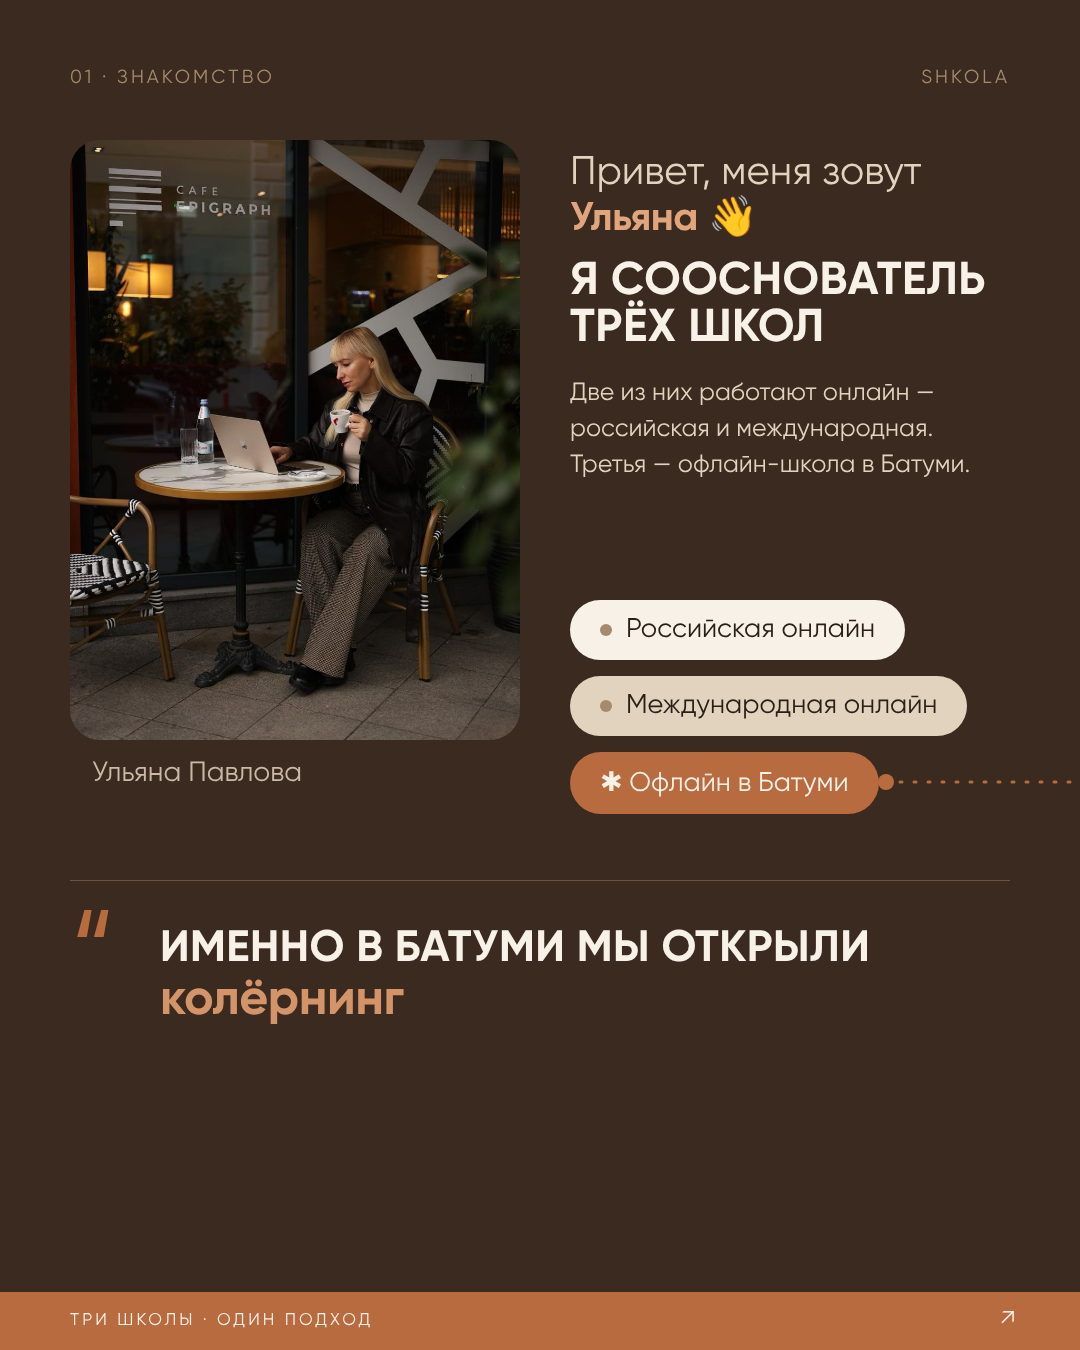
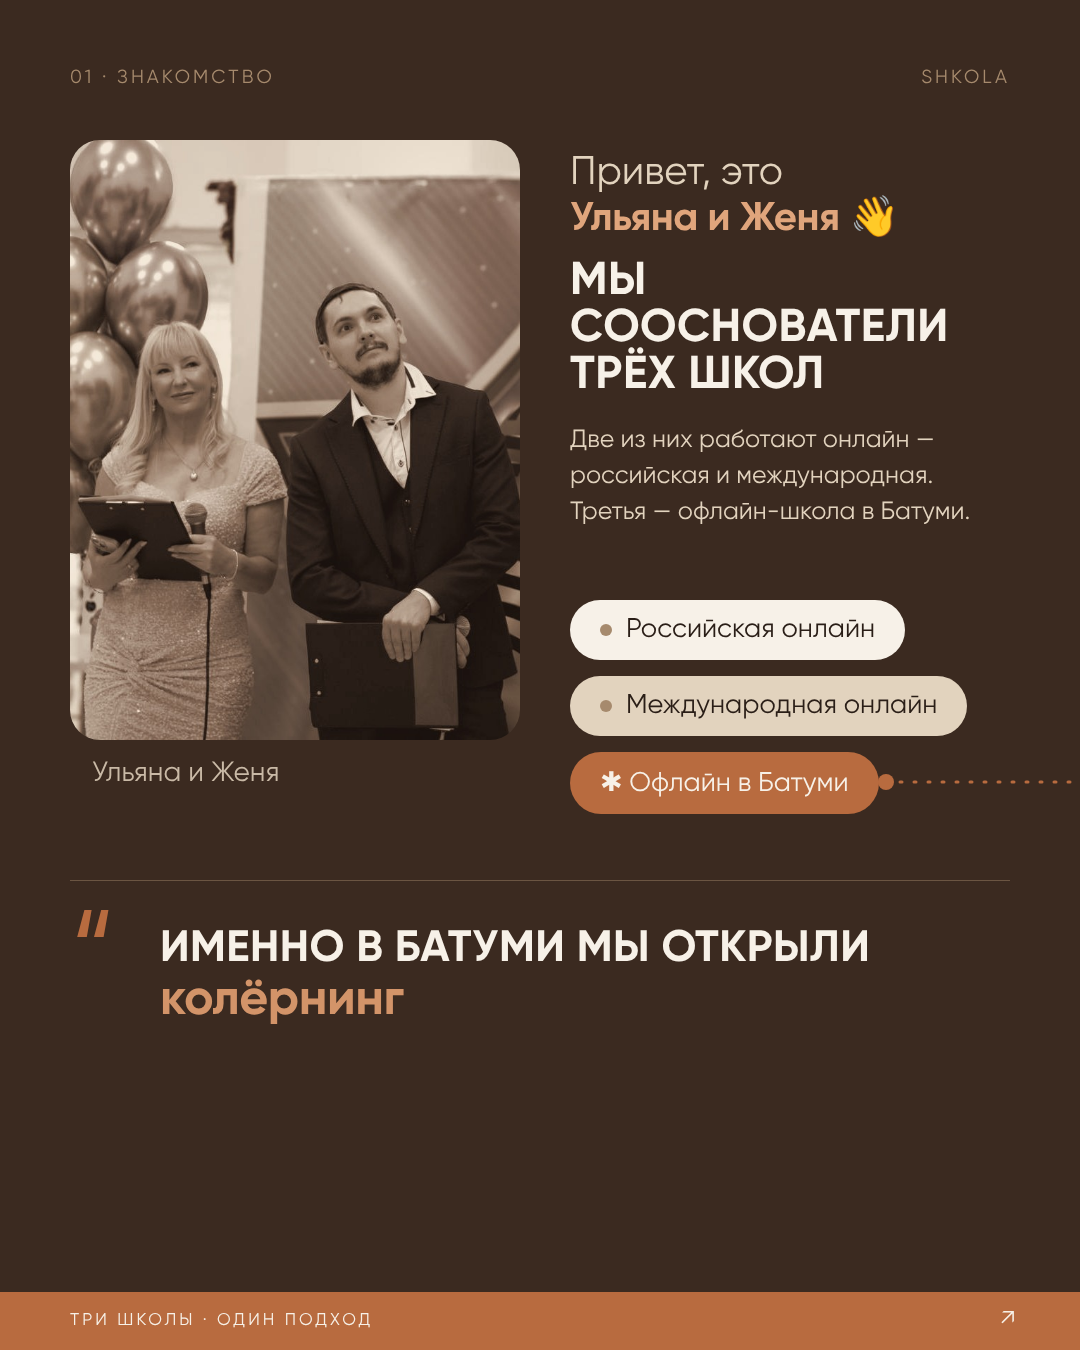
Carousel: slide 2 team photo in brown tone, Ulyana & Zhenya intro
Claude-Session: https://claude.ai/code/session_01EUhV7wdn39GiuF1YMz6ia3

Changed region(s): [[0.0611, 0.0933, 0.4889, 0.5911], [0.5194, 0.1244, 0.9167, 0.4044]]

diff --git a/carousel/src/panorama.html b/carousel/src/panorama.html
@@ -61,13 +61,13 @@ body{position:relative;font-family:var(--sans);color:var(--choco);-webkit-font-s
   <div class="abs small" style="right:70px;top:66px;color:var(--camel)">SHKOLA</div>
 
   <div class="abs" style="left:70px;top:140px;width:450px;height:600px;border-radius:30px;overflow:hidden">
-    <img src="cafe.jpg" style="width:100%;height:100%;object-fit:cover;object-position:62% 45%">
+    <img src="team.jpg" style="width:100%;height:100%;object-fit:cover;object-position:50% 30%">
   </div>
-  <div class="abs serif" style="left:92px;top:756px;font-size:28px;color:var(--sand2);opacity:.85">Ульяна Павлова</div>
+  <div class="abs serif" style="left:92px;top:756px;font-size:28px;color:var(--sand2);opacity:.85">Ульяна и Женя</div>
 
   <div class="abs" style="left:570px;top:150px;width:450px">
-    <div class="serif" style="font-size:40px;line-height:1.15;color:var(--sand2)">Привет, меня зовут<br><span class="hl" style="color:#E0A57C">Ульяна</span> 👋</div>
-    <div class="caps" style="font-size:46px;margin-top:16px">Я сооснователь<br>трёх школ</div>
+    <div class="serif" style="font-size:40px;line-height:1.15;color:var(--sand2)">Привет, это<br><span class="hl" style="color:#E0A57C">Ульяна и Женя</span> 👋</div>
+    <div class="caps" style="font-size:46px;margin-top:16px">Мы сооснователи<br>трёх школ</div>
     <div style="font-size:25px;line-height:1.45;margin-top:24px;color:var(--sand2);font-weight:400">Две из&nbsp;них работают онлайн&nbsp;— российская и&nbsp;международная. Третья&nbsp;— офлайн-школа в&nbsp;Батуми.</div>
   </div>
 
